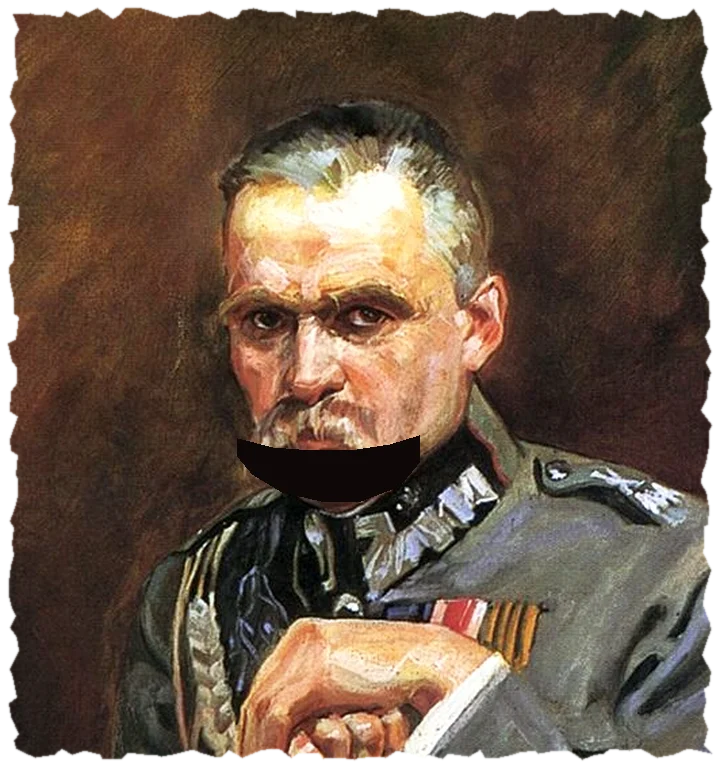
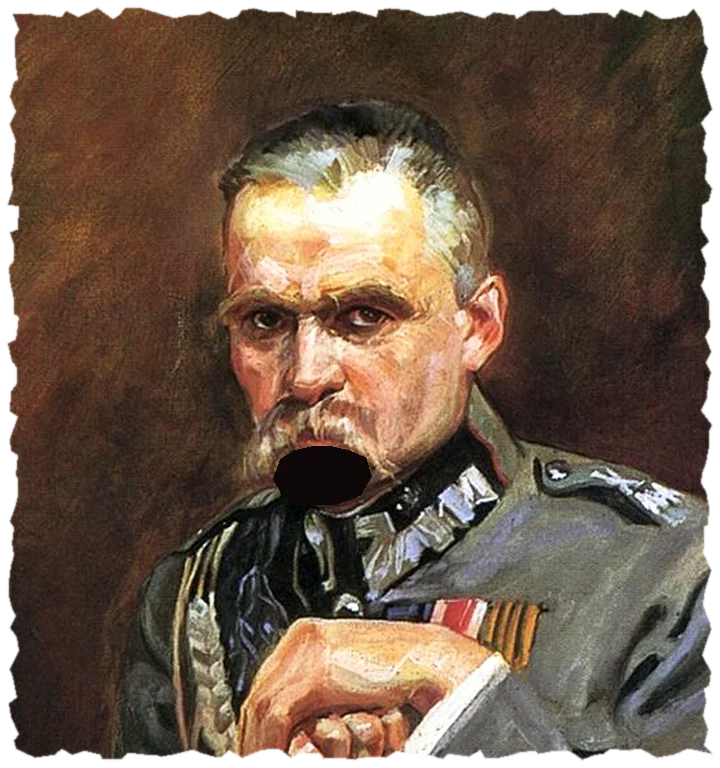
Pilsudski demo: szczeka wycieta pod wasem (was zostaje nieruchomy), dluzszy ruch

diff --git a/rozmowy/pilsudski/index.html b/rozmowy/pilsudski/index.html
@@ -28,10 +28,10 @@ nav{display:flex;align-items:center;gap:14px;padding:14px 4vw;border-bottom:3px 
 .head{position:relative;aspect-ratio:720/768;transform-origin:50% 90%;cursor:pointer}
 .head img{position:absolute;display:block;user-select:none;-webkit-user-drag:none}
 .glowa{inset:0;width:100%;height:100%;filter:drop-shadow(7px 9px 0 rgba(29,21,13,.55))}
-.szczeka{left:32.917%;top:56.641%;width:25.417%;filter:drop-shadow(0 4px 0 rgba(29,21,13,.45));transform-origin:50% 0}
+.szczeka{left:37.917%;top:58.073%;width:13.75%;filter:drop-shadow(0 4px 0 rgba(29,21,13,.45));transform-origin:50% 0}
 .head.talk .szczeka{animation:chomp .42s steps(1,end) infinite}
 .head.talk{animation:bob .84s steps(1,end) infinite}
-@keyframes chomp{0%{transform:translateY(0)}25%{transform:translateY(24%)}50%{transform:translateY(6%)}75%{transform:translateY(30%) rotate(-2deg)}}
+@keyframes chomp{0%{transform:translateY(0)}25%{transform:translateY(40%)}50%{transform:translateY(12%)}75%{transform:translateY(52%) rotate(-3deg)}}
 @keyframes bob{0%{transform:rotate(0)}50%{transform:rotate(-1.6deg) translateY(-3px)}}
 .plate{margin:18px auto 0;width:max-content;max-width:100%;background:var(--ink);color:var(--paper);font-family:var(--display);font-size:20px;padding:6px 16px 8px;transform:rotate(-2deg);box-shadow:4px 4px 0 var(--acc)}
 .plate small{display:block;font-family:var(--mono);font-size:10px;letter-spacing:.12em;text-transform:uppercase;color:#d8c7a5;margin-top:2px}
@@ -94,7 +94,7 @@ footer a{color:var(--ink)}
 <nav><a class="logo" href="../../">FUTURE<span>SHOW</span></a><span class="logo-desc">Rozmowy z Wielkimi · demo</span></nav>
 <div class="wrap">
   <aside class="stage">
-    <div class="head" id="head" title="Zaczepić Marszałka"><img class="glowa" src="img/pilsudski-glowa.webp?v=1" alt="Portret Józefa Piłsudskiego pędzla Wojciecha Kossaka z 1928 roku, z ruchomą szczęką"><img class="szczeka" src="img/pilsudski-szczeka.webp?v=1" alt=""></div>
+    <div class="head" id="head" title="Zaczepić Marszałka"><img class="glowa" src="img/pilsudski-glowa.webp?v=2" alt="Portret Józefa Piłsudskiego pędzla Wojciecha Kossaka z 1928 roku, z ruchomą szczęką"><img class="szczeka" src="img/pilsudski-szczeka.webp?v=2" alt=""></div>
     <div class="plate">Józef Piłsudski<small>1867–1935 · portret W. Kossaka, 1928</small></div>
   </aside>
   <section class="talkcol">
